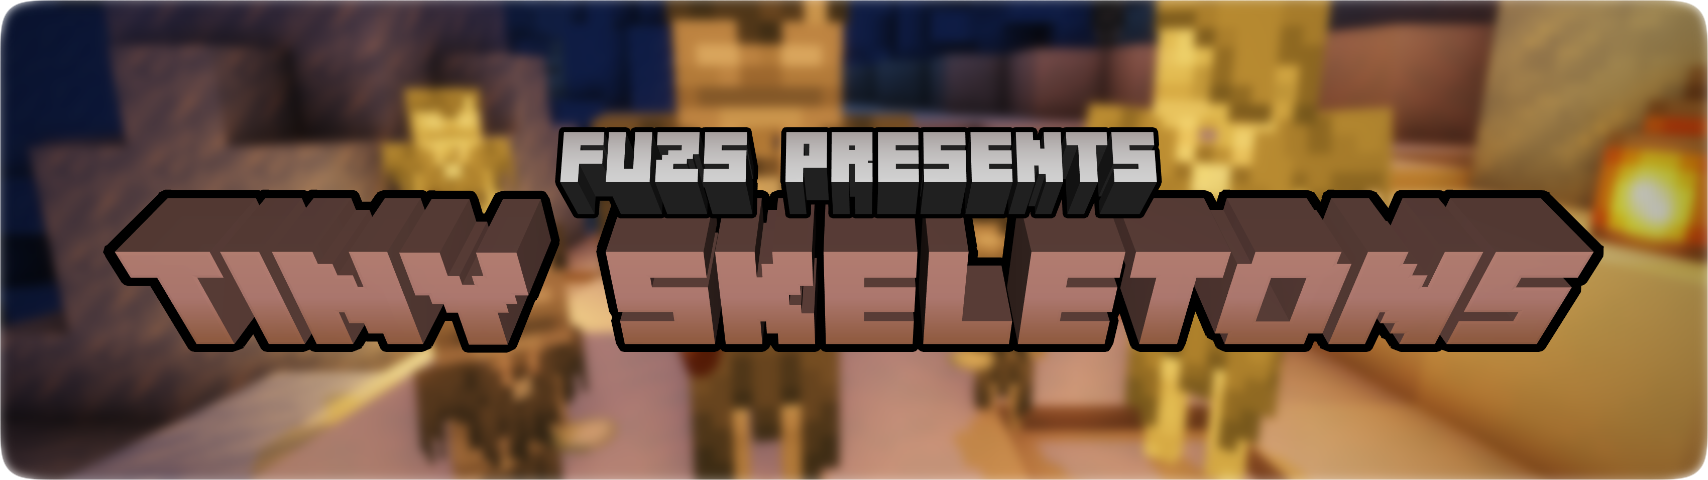
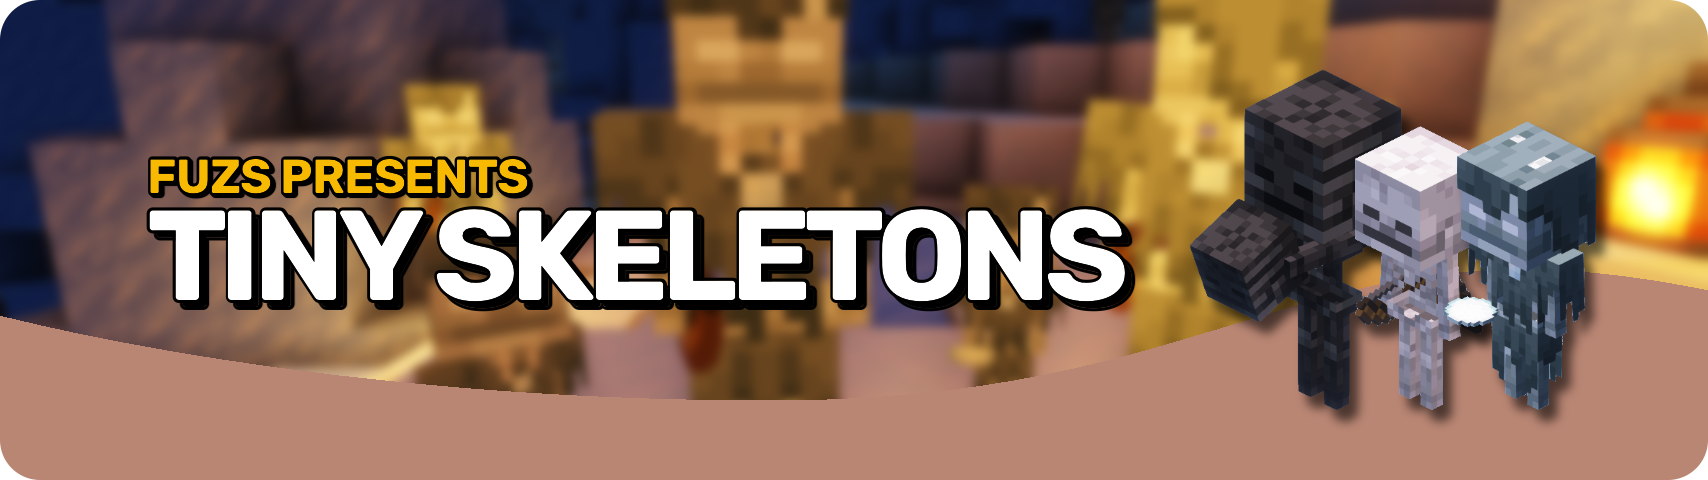
new tiny skeletons page

diff --git a/pages/data/tinyskeletons/features.md b/pages/data/tinyskeletons/features.md
@@ -1,0 +1,4 @@
++ Baby skeleton variants spawn just like baby zombies: Every time an adult skeleton spawns there is a 5% chance it will spawn as a baby instead.
++ Baby Skeletons use their bow for ranged combat. As soon as their target comes close enough, they will quickly switch to the wooden sword on their back, and turn to melee combat. Quite the challenge!
++ Baby Strays are equipped with snowballs and will throw those right in your face whenever they have the chance. But be careful: The snowballs have pebbles mixed in, so they deal a tiny amount of damage and knock you back on impact!
++ Baby Wither Skeletons are not aggressive at all! The complete opposite is the case: They are quite scared you will steal the wither skeleton skull they always carry with them. So they will try to flee as fast as they can when you come even a little bit close. When killed the skull is guaranteed to drop. If you do not want to kill such a cute creature to get the skull, give it a wither rose in exchange!

diff --git a/pages/data/tinyskeletons/credits.md b/pages/data/tinyskeletons/credits.md
@@ -1,0 +1,3 @@
++ Thanks to [Daveyx0](https://www.curseforge.com/members/daveyx0) for inspiring the baby skeleton's combat behavior with the skeleton warrior from their [Primitive Mobs](https://www.curseforge.com/minecraft/mc-mods/primitive-mobs) mod.
++ Thanks to [Globox_Z](https://www.curseforge.com/members/globox_z) for some of the code for rendering items on the back of baby skeletons from their [BackSlot](https://www.curseforge.com/minecraft/mc-mods/backslot) mod.
++ Thanks to [Furgle](https://www.curseforge.com/members/furgle) for inspiring baby wither skeletons carrying skulls from their [Baby Mobs](https://www.curseforge.com/minecraft/mc-mods/baby-mobs) mod.

diff --git a/pages/data/tinyskeletons/about.md b/pages/data/tinyskeletons/about.md
@@ -1,0 +1,3 @@
+Ever wondered why baby zombies are a thing, but baby skeletons are nowhere to be found? Wonder no more, Tiny Skeletons is here to change just that!
+
+A baby variant is added for normal skeletons, strays, and wither skeletons. And they all have unique behaviors to stand out from their adult variants!
